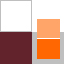
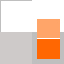
no no, steve. you can't walk through walls

Changed region(s): [[0.0, 0.0, 0.5, 1.0]]

diff --git a/js/game.js b/js/game.js
@@ -66,9 +66,17 @@ gameObj.Game.prototype = {
   * @return Phaser.Tile Object
   */
   findTileByWorldCoords: function(worldX, worldY, map, layer) {
-    return map.getTile(Math.round(worldX/map.tileWidth),Math.round(worldY/map.tileHeight),layer);
+    return map.getTile(Math.round(worldX/map.tileWidth),
+      Math.round(worldY/map.tileHeight), layer);
   },
 
+  validMovement: function(worldX, worldY, offsetX, offsetY) {
+    console.log(this.map.getTile(Math.round(worldX/this.map.tileWidth) + offsetX,
+      Math.round(worldY/this.map.tileHeight) + offsetY, 'Base').index == 1 || false)
+
+    return this.map.getTile(Math.round(worldX/this.map.tileWidth) + offsetX,
+      Math.round(worldY/this.map.tileHeight) + offsetY, 'Base').index == 1 || false;
+  },
   /*
   //create a sprite from an object
   createFromTiledObject: function(element, group) {
@@ -97,8 +105,6 @@ gameObj.Game.prototype = {
             this.player.body.y = next - this.state.verticalOffset; break;
           case 'left':
           case 'right':
-            console.log(this.findTileByWorldCoords(this.player.body.x, this.player.body.y, this.map, 'Base').index)
-
             var next = Math.floor(Math.round(this.state.next + this.state.horizontalOffset) / this.state.step) * this.state.step;
             this.player.body.x = next - this.state.horizontalOffset; break;
         }
@@ -110,21 +116,20 @@ gameObj.Game.prototype = {
 
     // TODO: Should be switched to event listeners
 
-    if (this.cursors.up.isDown) {
+    if (this.cursors.up.isDown && this.validMovement(this.player.body.x, this.player.body.y, 0, -1)) {
       this.state.moving = true;
       this.state.direction = 'up';
       this.state.next = this.player.body.y - this.state.step;
       this.player.body.velocity.y -= this.state.velocity;
       this.player.animations.play('run', 15, true);
-
-    } else if (this.cursors.down.isDown) {
+    } else if (this.cursors.down.isDown && this.validMovement(this.player.body.x, this.player.body.y, 0, 1)) {
       this.state.moving = true;
       this.state.direction = 'down';
       this.state.next = this.player.body.y + this.state.step;
       this.player.body.velocity.y += this.state.velocity;
       this.player.animations.play('run', 15, true);
 
-    } else if (this.cursors.left.isDown) {
+    } else if (this.cursors.left.isDown && this.validMovement(this.player.body.x, this.player.body.y, -1, 0)) {
       this.state.moving = true;
       this.state.direction = 'left';
       this.state.next = this.player.body.x - this.state.step;
@@ -132,7 +137,7 @@ gameObj.Game.prototype = {
       this.player.scale.x = 1;
       this.player.animations.play('run', 15, true);
 
-    } else if (this.cursors.right.isDown) {
+    } else if (this.cursors.right.isDown  && this.validMovement(this.player.body.x, this.player.body.y, 1, 0)) {
       this.state.moving = true;
       this.state.direction = 'right';
       this.state.next = this.player.body.x + this.state.step;
